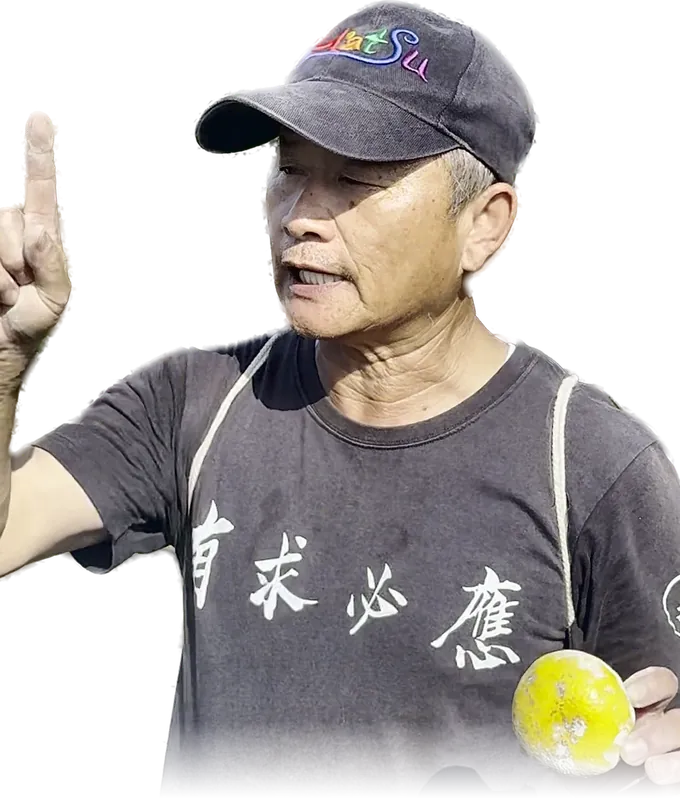
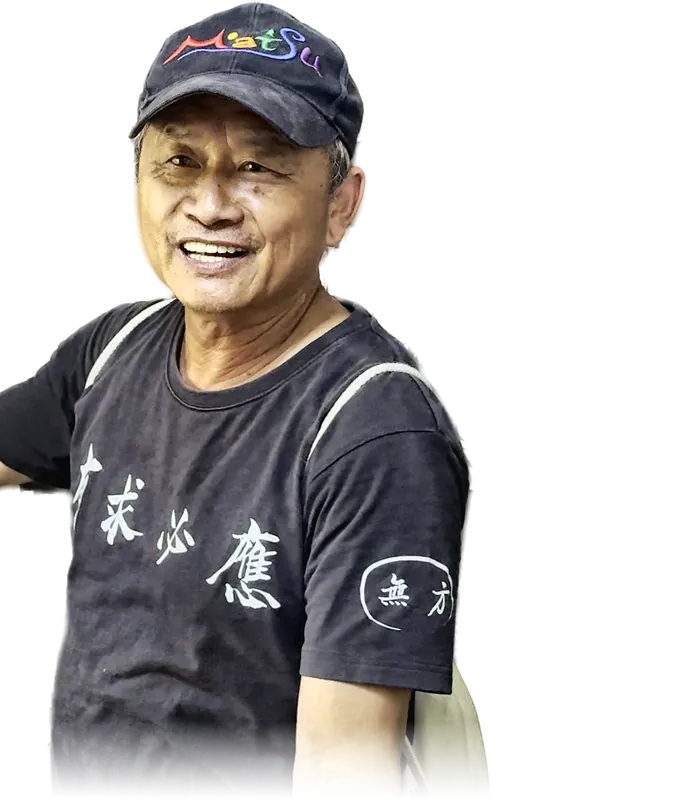
志永哥一般、指向、思考三個動作換成有笑容的畫面

diff --git a/sw.js b/sw.js
@@ -1,6 +1,6 @@
 // TempleGo 離線快取
 // ⚠ 新增或改名圖片時：把路徑加進 PRECACHE，並把 VERSION 加 1，遊客手機才會更新快取
-const VERSION = "v32";
+const VERSION = "v33";
 const CACHE = `templego-${VERSION}`;
 const FONT_CACHE = "templego-fonts";
 
